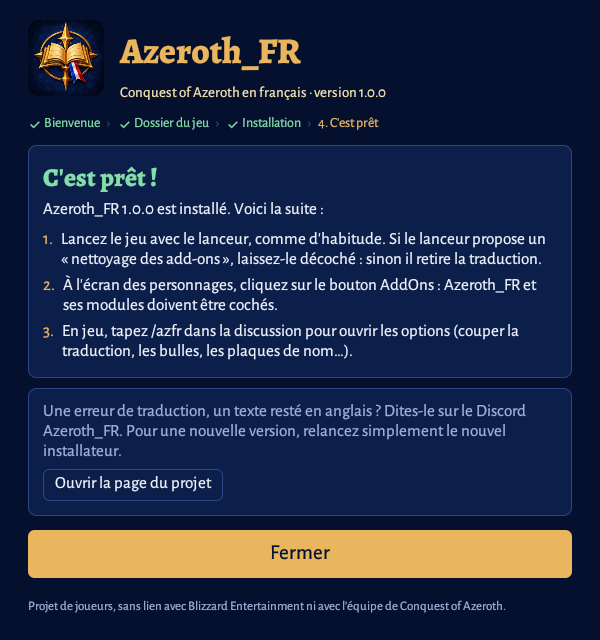
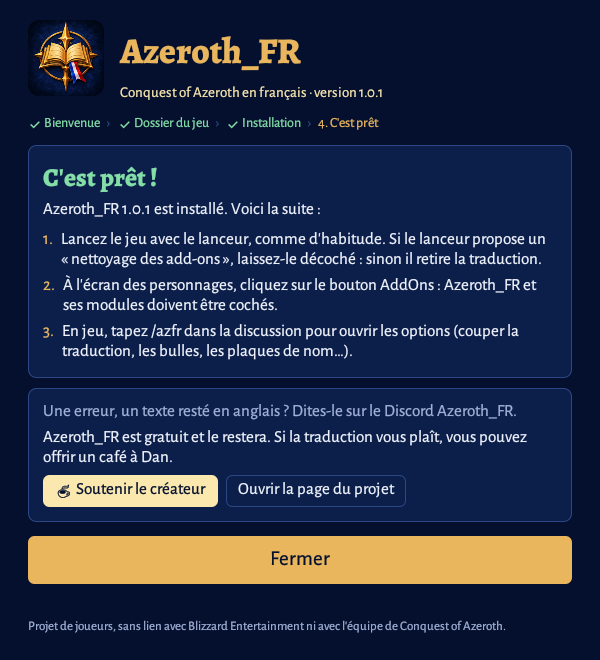
Azeroth_FR 1.0.1 : carte du monde en français, encart « Soutenir le créateur », 21 classes
Claude-Session: https://claude.ai/code/session_01CV2HuB64YXfPijHSsbFmQD

Changed region(s): [[0.03, 0.0312, 0.96, 0.9062], [0.06, 0.9375, 0.84, 0.9688]]

diff --git a/installateur/src/main.rs b/installateur/src/main.rs
@@ -28,6 +28,7 @@ const VERT: Color32 = Color32::from_rgb(132, 222, 168);
 const ROUGE: Color32 = Color32::from_rgb(244, 120, 120);
 
 const PAGE_PROJET: &str = "https://github.com/LePetitDan/Azeroth_FR";
+const PAGE_SOUTIEN: &str = "https://buymeacoffee.com/LePetitDan";
 
 #[derive(Clone, Copy, PartialEq)]
 enum Etape {
@@ -526,11 +527,19 @@ impl App {
         });
         carte(ui, |ui| {
             ui.add(egui::Label::new(RichText::new(
-                "Une erreur de traduction, un texte resté en anglais ? Dites-le sur le Discord Azeroth_FR. Pour une nouvelle version, relancez simplement le nouvel installateur.",
+                "Une erreur, un texte resté en anglais ? Dites-le sur le Discord Azeroth_FR.",
             ).color(DOUX)).wrap());
-            if ui.add(bouton_secondaire("Ouvrir la page du projet")).clicked() {
-                ouvrir(PAGE_PROJET);
-            }
+            ui.add(egui::Label::new(RichText::new(
+                "Azeroth_FR est gratuit et le restera. Si la traduction vous plaît, vous pouvez offrir un café à Dan.",
+            ).color(TEXTE)).wrap());
+            ui.horizontal(|ui| {
+                if ui.add(egui::Button::new(RichText::new("☕ Soutenir le créateur").color(NUIT).strong()).fill(CRISTAL)).clicked() {
+                    ouvrir(PAGE_SOUTIEN);
+                }
+                if ui.add(bouton_secondaire("Ouvrir la page du projet")).clicked() {
+                    ouvrir(PAGE_PROJET);
+                }
+            });
         });
         ui.add_space(4.0);
         if bouton_principal(ui, "Fermer", true) {
@@ -771,7 +780,7 @@ fn main() -> eframe::Result<()> {
     };
     let mut vp = egui::ViewportBuilder::default()
         .with_title(format!("Azeroth_FR {} : installation", installation::VERSION))
-        .with_inner_size([600.0, 640.0])
+        .with_inner_size([600.0, 660.0])
         .with_resizable(false);
     if let Some(i) = icone() {
         vp = vp.with_icon(Arc::new(i));

diff --git a/README.md b/README.md
@@ -10,7 +10,7 @@ Azeroth_FR est un add-on de traduction française pour le serveur **Conquest of 
 
 ## Ce qui est traduit
 
-- **Les sorts, talents et passifs des 32 classes** : noms, rangs, descriptions, auras, texte détaillé (touche MAJ).
+- **Les sorts, talents et passifs des 21 classes** : noms, rangs, descriptions, auras, texte détaillé (touche MAJ).
 - **Les quêtes** : titres, textes, objectifs, suivi, récompenses.
 - **Les objets** : noms, descriptions, lignes « Utiliser : » et « Équipé : », ensembles.
 - **Le monde** : créatures, PNJ et leurs dialogues, cris, bulles, zones, carte, minicarte, objets du monde.
@@ -86,10 +86,15 @@ Ne partagez jamais votre identifiant ni votre mot de passe. Évitez aussi de mon
 
 ## Limites connues
 
+- **La carte du monde** : les grands noms peints sur la carte (« Eastern Kingdoms », « The Great Sea ») sont des images du jeu, un add-on ne peut pas les changer.
 - **Ce qui reste en anglais.** Quelques termes propres à Conquest of Azeroth gardent leur nom anglais, comme la difficulté *Ascended* ou *Worldforged*. Les noms propres inventés par CoA (personnages, la plupart des lieux) restent tels quels, comme dans le jeu français de Blizzard pour ses propres noms. Quelques textes encore récents (boutique, enchantements mystiques) attendent leur traduction.
 - **Les mises à jour de Conquest of Azeroth** ajoutent des textes : ils restent en anglais jusqu'à la version suivante d'Azeroth_FR.
 - **Les messages des joueurs** ne sont pas traduits.
 - **Le nom de vos ennemis dans le journal de combat** peut rester en anglais.
+
+## Soutenir le créateur
+
+Azeroth_FR est gratuit et le restera. Si la traduction vous plaît, vous pouvez [offrir un café à Dan](https://buymeacoffee.com/LePetitDan).
 
 ## Licence
 

diff --git a/public/LISEZMOI.md b/public/LISEZMOI.md
@@ -10,7 +10,7 @@ Azeroth_FR est un add-on de traduction française pour le serveur **Conquest of 
 
 ## Ce qui est traduit
 
-- **Les sorts, talents et passifs des 32 classes** : noms, rangs, descriptions, auras, texte détaillé (touche MAJ).
+- **Les sorts, talents et passifs des 21 classes** : noms, rangs, descriptions, auras, texte détaillé (touche MAJ).
 - **Les quêtes** : titres, textes, objectifs, suivi, récompenses.
 - **Les objets** : noms, descriptions, lignes « Utiliser : » et « Équipé : », ensembles.
 - **Le monde** : créatures, PNJ et leurs dialogues, cris, bulles, zones, carte, minicarte, objets du monde.
@@ -86,10 +86,15 @@ Ne partagez jamais votre identifiant ni votre mot de passe. Évitez aussi de mon
 
 ## Limites connues
 
+- **La carte du monde** : les grands noms peints sur la carte (« Eastern Kingdoms », « The Great Sea ») sont des images du jeu, un add-on ne peut pas les changer.
 - **Ce qui reste en anglais.** Quelques termes propres à Conquest of Azeroth gardent leur nom anglais, comme la difficulté *Ascended* ou *Worldforged*. Les noms propres inventés par CoA (personnages, la plupart des lieux) restent tels quels, comme dans le jeu français de Blizzard pour ses propres noms. Quelques textes encore récents (boutique, enchantements mystiques) attendent leur traduction.
 - **Les mises à jour de Conquest of Azeroth** ajoutent des textes : ils restent en anglais jusqu'à la version suivante d'Azeroth_FR.
 - **Les messages des joueurs** ne sont pas traduits.
 - **Le nom de vos ennemis dans le journal de combat** peut rester en anglais.
+
+## Soutenir le créateur
+
+Azeroth_FR est gratuit et le restera. Si la traduction vous plaît, vous pouvez [offrir un café à Dan](https://buymeacoffee.com/LePetitDan).
 
 ## Licence
 

diff --git a/public/JOURNAL_DES_VERSIONS.md b/public/JOURNAL_DES_VERSIONS.md
@@ -2,6 +2,12 @@
 
 Les versions 0.x ont été testées en jeu par Dan seul, de 2026-11-03 à 2026-11-09 ; la première version publique les réunit.
 
+## 1.0.1 (2026-11-09)
+
+- **Carte du monde** : le nom de la zone survolée (avec ses niveaux) et les listes « Continent » et « Zone » sont en français.
+- **Soutenir le créateur** : un encart dans l'installateur et dans le panneau d'options, pour ceux qui veulent offrir un café.
+- Correction des textes : Conquest of Azeroth a 21 classes.
+
 ## 1.0.0 (2026-11-09) : première version publique
 
 - **Installateur guidé**, étape par étape : Bienvenue, Dossier du jeu, Installation, C'est prêt.
@@ -19,7 +25,7 @@ Les versions 0.x ont été testées en jeu par Dan seul, de 2026-11-03 à 2026-1
 
 ## 0.9.5 (2026-11-09)
 
-- **Tous les sorts des 32 classes vérifiés.** Les 6 925 capacités, talents et passifs ont été contrôlés un à un, puis relus.
+- **Tous les sorts des 21 classes vérifiés.** Avec les classes d'origine du jeu, 6 925 capacités, talents et passifs ont été contrôlés un à un, puis relus.
 - **Noms cohérents.** Un sort, une spécialisation ou un nom cité porte le même nom partout : grimoire, talents, descriptions, fenêtres de CoA.
 - **Texte détaillé des sorts** (touche MAJ) en français, avec « Maintenez MAJ pour plus d'informations ».
 - **Écran de sélection** : « Courrier non lu ».
